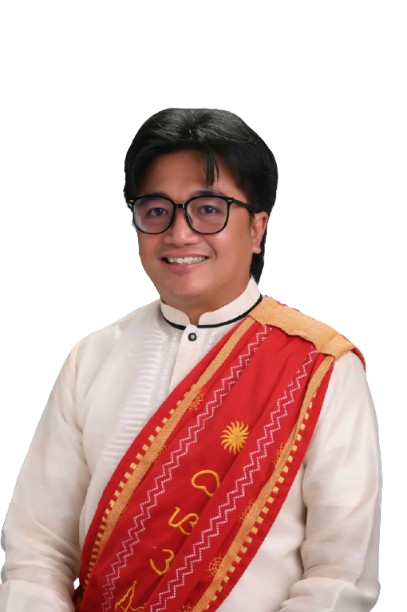
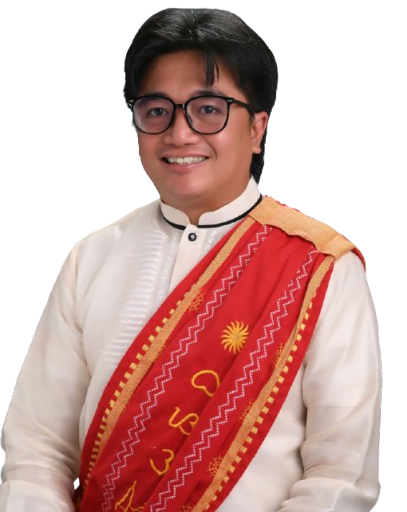
fixxxx

diff --git a/lib/screens/web/landing/researchers_section.dart b/lib/screens/web/landing/researchers_section.dart
@@ -159,6 +159,7 @@ class _Portrait extends StatelessWidget {
   final LandingPalette palette;
   final String imagePath;
   final double size;
+  final double? height;
   final bool hover;
   final bool gradientBackdrop;
 
@@ -166,6 +167,7 @@ class _Portrait extends StatelessWidget {
     required this.palette,
     required this.imagePath,
     required this.size,
+    this.height,
     this.hover = false,
     this.gradientBackdrop = false,
   });
@@ -177,7 +179,7 @@ class _Portrait extends StatelessWidget {
     return AnimatedContainer(
       duration: const Duration(milliseconds: 260),
       width: size,
-      height: size,
+      height: height ?? size,
       padding: const EdgeInsets.all(3),
       decoration: BoxDecoration(
         borderRadius: BorderRadius.circular(radius + 3),
@@ -234,10 +236,8 @@ class _Portrait extends StatelessWidget {
                 curve: Curves.easeOutCubic,
                 child: Image.asset(
                   imagePath,
-                  fit: BoxFit.cover,
-                  alignment: gradientBackdrop
-                      ? const Alignment(0, -0.55)
-                      : Alignment.topCenter,
+                  fit: gradientBackdrop ? BoxFit.contain : BoxFit.cover,
+                  alignment: Alignment.center,
                   filterQuality: FilterQuality.medium,
                   errorBuilder: (_, __, ___) => Container(
                     color: Colors.white,
@@ -330,7 +330,9 @@ class _AdviserCard extends StatelessWidget {
     final narrow = MediaQuery.of(context).size.width < 760;
 
     final text = Column(
-      crossAxisAlignment: CrossAxisAlignment.center,
+      crossAxisAlignment: narrow
+          ? CrossAxisAlignment.center
+          : CrossAxisAlignment.start,
       mainAxisSize: MainAxisSize.min,
       children: [
         Container(
@@ -359,7 +361,7 @@ class _AdviserCard extends StatelessWidget {
         const SizedBox(height: 16),
         Text(
           adviser.name,
-          textAlign: TextAlign.center,
+          textAlign: narrow ? TextAlign.center : TextAlign.start,
           style: GoogleFonts.beVietnamPro(
             fontSize: narrow ? 24 : 30,
             fontWeight: FontWeight.w800,
@@ -384,7 +386,7 @@ class _AdviserCard extends StatelessWidget {
           'insights and expertise have played an important role in shaping '
           'this project and guiding our team from its early stages to '
           'completion.',
-          textAlign: TextAlign.center,
+          textAlign: narrow ? TextAlign.center : TextAlign.start,
           style: GoogleFonts.beVietnamPro(
             fontSize: 14.5,
             height: 1.7,
@@ -397,7 +399,8 @@ class _AdviserCard extends StatelessWidget {
     final portrait = _Portrait(
       palette: p,
       imagePath: adviser.imagePath,
-      size: narrow ? 180 : 210,
+      size: narrow ? 216 : 240,
+      height: narrow ? 270 : 300,
       gradientBackdrop: true,
     );
 
@@ -410,10 +413,16 @@ class _AdviserCard extends StatelessWidget {
           borderRadius: BorderRadius.circular(28),
           border: Border.all(color: Colors.white.withAlpha(28)),
         ),
-        child: Column(
-          crossAxisAlignment: CrossAxisAlignment.center,
-          children: [portrait, const SizedBox(height: 22), text],
-        ),
+        child: narrow
+            ? Column(children: [portrait, const SizedBox(height: 22), text])
+            : Row(
+                crossAxisAlignment: CrossAxisAlignment.center,
+                children: [
+                  portrait,
+                  const SizedBox(width: 36),
+                  Expanded(child: text),
+                ],
+              ),
       ),
     );
   }
